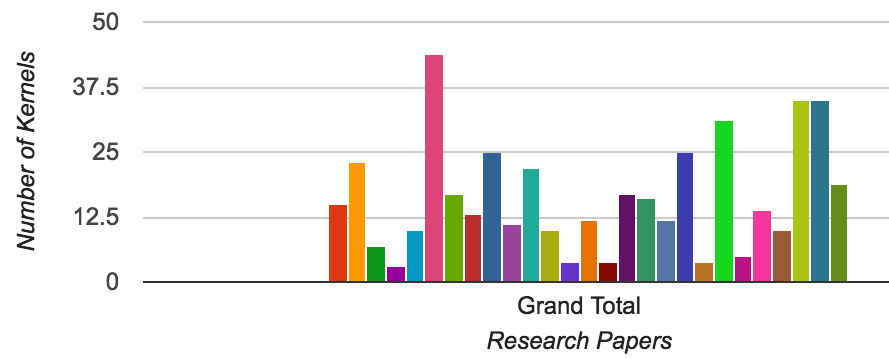
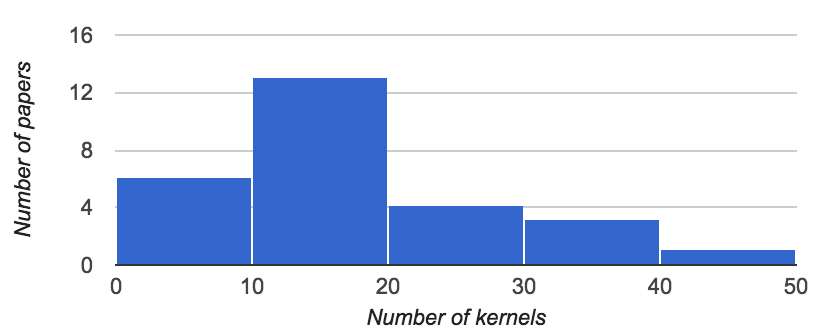
docs/smith: Morning work

diff --git a/docs/wip-smith/smith.tex b/docs/wip-smith/smith.tex
@@ -245,7 +245,7 @@ complex,imaginary},%
            {University of Edinburgh}
            {ppetoume@inf.ed.ac.uk}
 \authorinfo{Zheng Wang}
-           {Lancaster Univeristy}
+           {Lancaster University}
            {z.wang@lancaster.ac.uk}
 \authorinfo{Hugh Leather}
            {University of Edinburgh}
@@ -254,19 +254,18 @@ complex,imaginary},%
 \maketitle
 
 \begin{abstract}
-  The quality of performance tuning is bound by the quantity and
-  quality of benchmarks used. Too few benchmarks leads to overfitting;
-  non-representative benchmarks lead to invalid predictions.
+  The quality of predictive performance tuning is bound by the
+  quantity and quality of benchmarks used as training data. Too few
+  benchmarks leads to overfitting; non-representative benchmarks leads
+  to poor heuristics.
 
-  We present a novel methodology for generating OpenCL compute
-  kernels. Given a corpus of example programs, we apply deep learning
-  across the implementation space, learning a language model from
-  which we obtain new kernels through a process of rejection
-  sampling. %
-  %
-  We demonstrate our approach for a state-of-the-art machine learning
-  OpenCL autotuner. With the addition of synthesised compute kernels,
-  we improve the accuracy of machine learning predictions from XXX\%
+  We present a novel methodology for generating representative compute
+  kernels on-demand. Given a corpus of example programs, we apply deep
+  learning across the implementation space, learning a language model
+  from which we obtain new kernels through a process of rejection
+  sampling. We demonstrate our approach for a state-of-the-art machine
+  learning OpenCL autotuner. With the addition of synthesized OpenCL
+  kernels, we improve the accuracy of learned predictions from XXX\%
   to XXX\%, demonstrating up to $X\times$ speedup over the
   hand-selected benchmarks.
 \end{abstract}
@@ -286,6 +285,26 @@ GPUs
 
 \section{Introduction}\label{sec:introduction}
 
+Predictive modeling is a promising method for building effective
+optimization heuristics over large optimization spaces. Whereas
+traditionally optimization heuristics are crafted at the expense of
+months of developer effort, the optimization space is empirically and
+automatically explored to generate a set of training data over which
+machine learning is applied. The learned optimizations often
+outperform human experts~\cite{Ding2015,Hu2015}.
+
+The challenge of predictive modeling is to be explore a sufficiently
+large subset of a given optimization spaces so as to be able to make
+meaning predictions, using some finite combination of programs,
+datasets, and optimizations. In the program space, this means the
+curation and selection of a number of programs to act as
+``representative benchmarks''. The curation of programs is time
+consuming, and as such, suites of pre-packaged benchmarks are in
+widespread use.
+
+% two approaches to selecting benchmarks: benchmark suites and
+% template substitution.
+
 Benchmarking parallel applications is hard. State of the practice is
 lacking~\cite{Belli2015}.
 
@@ -295,15 +314,15 @@ Rodinia~\cite{Che2009}, %
 Parboil~\cite{Stratton2012}, %
 Polybench~\cite{Grauer-Gray2012}, %
 SHOC~\cite{Danalis2010}, %
-AMD SDK~\footnote{\url{http://developer.amd.com/}} %
+AMD SDK\footnote{\url{http://developer.amd.com/}} %
 and NVIDIA
-SDK~\footnote{\url{https://developer.nvidia.com/opencl/}}. %
+SDK\footnote{\url{https://developer.nvidia.com/opencl/}}. %
 TODO: Tease the small number of benchmarks used.
 
 Benchmarking OpenCL~\cite{Tobergte2013a}.
 
 Are benchmarks suites representative? Exploring the full performance
-spectrum~\cite{Ryoo2015}. Characterising workloads of Rodinia and
+spectrum~\cite{Ryoo2015}. Characterizing workloads of Rodinia and
 Parsec~\cite{Che2010}.
 
 In previous works we used stochastic template substitution to generate
@@ -313,25 +332,26 @@ approach is not general purpose, requires laborious human effort, and
 does not guarantee to generate representative benchmarks.
 
 \begin{quote}
-  \emph{RQ1: Can the quality of machine learning predictions be
-    improved with the addition of representative benchmarks?}
+  \emph{RQ1: Does the addition of representative benchmarks aid the
+    quality of machine learning predictions?}
 \end{quote}
 
+\noindent
 For this, we need a methodology for generating novel source
 codes. This leads to the subsequent research question:
 
 \begin{quote}
   \emph{RQ2: Given a program checker and a corpus of example programs,
-    can a language model learn to generate new programs?}
+    can deep learning be used to generate new programs?}
 \end{quote}
 
 \noindent
 The key contributions of this work are as follows:%
 \begin{itemize}
-\item a novel methodology for generating synthetic compute kernels for
-  machine learning-based performance tuning;
+\item a novel methodology for synthesizing compute kernels for machine
+  learning-based performance tuning;
 \item a large scale source code evaluation and re-writing for
-  character-level language modelling using deep learning;
+  character-level language modeling using deep learning;
 \item improved tuning performance of [CGO'13] on hand written OpenCL
   kernels.
 \end{itemize}
@@ -339,45 +359,26 @@ The key contributions of this work are as follows:%
 
 \section{Motivation}\label{sec:motivation}
 
-We surveyed the benchmarking methodologies of GPU research papers from
-top tier conferences between 2013--2016: CGO, HiPC, PACT, and
-PPoPP. By aggregating the sources and quantities of benchmark kernels
-from 27 papers, we find that 79\% of benchmark kernels come from four
-benchmark suites~\footnote{Raw data available at:
-  \url{http://bit.ly/foo}}. Figure~\ref{fig:benchmark-quantity-distribution}
-and Figure~\ref{fig:benchmark-suite-distribution}.
-
-% CGO 2016 - done
-% CGO 2015 - done
-% CGO 2014 - done
-% CGO 2013 - done
-% PLDI 2016 - done
-% PLDI 2015 - done
-% PACT 2015 - done
-% PACT 2014 - done
-% PACT 2013 - done
-% IWOCL 2016 - done
-% IWOCL 2015 - done
-% IWOCL 2014 - done
-% IWOCL 2013 - done
-% HiPC 2016 - done
-% HiPC 2015 - done
-% HiPC 2014 - done
-% HiPC 2013 - done
-% PPoPP 2016 - done
-% PPoPP 2015 - done
-% PPoPP 2014 - done
-% PPoPP 2013 - done
-% LCPC 2016 -
-% LCPC 2015 -
-% LCPC 2014 -
-% LCPC 2013 -
+We surveyed the benchmarking methodologies of research papers in the
+field of GPU performance tuning from top tier conferences between
+2013--2016: CGO, HiPC, PACT, and PPoPP. For each of the 27 papers, we
+noted the quantity and sources of all kernels they used as
+benchmarks\footnote{Anonymized raw data available at:
+  \url{http://bit.ly/XXX}}. %
+Figure~\ref{fig:benchmark-quantity-distribution} shows the
+distribution of kernel quantities. The median number of kernels used
+is 14. Of those, the majority (74\%) come from four benchmark suites:
+Rodinia~\cite{Che2009}, the NVIDIA
+SDK\footnote{\url{https://developer.nvidia.com/opencl/}},
+Parboil~\cite{Stratton2012}, and the AMD
+SDK\footnote{\url{http://developer.amd.com/}}. Figure~\ref{fig:benchmark-suite-distribution}
+shows the breakdown of kernel sources.
 
 \begin{figure}[t]
   \includegraphics[width=\columnwidth]{img/benchmark-quantitiy-distribution}
   \caption{%
     Number of benchmark kernels used in research papers. The median
-    number of benchmark kernels used is XX.%
+    value is 14.%
   }
   \label{fig:benchmark-quantity-distribution}
 \end{figure}
@@ -385,8 +386,8 @@ and Figure~\ref{fig:benchmark-suite-distribution}.
 \begin{figure}[t]
   \includegraphics[width=\columnwidth]{img/benchmark-suite-distribution}
   \caption{%
-    Origins of benchmark kernels used in research papers. 4 benchmark
-    suites account for 79\% of benchmark results.%
+    Origins of benchmark kernels used in research papers. The 4 most
+    frequently used benchmark suites account for 74\% of all kernels.%
   }
   \label{fig:benchmark-suite-distribution}
 \end{figure}
@@ -403,7 +404,7 @@ dataset.
 character-level language model.
 
 
-\paragraph{Synthesising Compute Kernels} Sampling learned model using
+\paragraph{Synthesizing Compute Kernels} Sampling learned model using
 function prototypes, rejection sampler, program checker.
 
 
@@ -420,23 +421,23 @@ function prototypes, rejection sampler, program checker.
 \section{Assembling Representative Benchmarks}\label{sec:}
 
 We collect a large code corpus from
-GitHub~\footnote{\url{https://github.com/}}. This took 2 days on a
+GitHub\footnote{\url{https://github.com/}}. This took 2 days on a
 single machine.
 
 Alternative source of data: \emph{GHTorrent}~\cite{Gousios2014a}.
 
 Rejection sampling to remove noise from dataset. Check that compiles.
 
-Minimising non-functional variance using clang libraries and tools:
+Minimizing non-functional variance using clang libraries and tools:
 \begin{itemize}
 \item Pre-process source to remove macros and conditional
   compilation.
-\item Lossless vocabulary size reduction with AST rewriting of
+\item Loss-less vocabulary size reduction with AST rewriting of
   identifiers.
 \item Automatically enforcing code style with formatting tools.
 \end{itemize}
 
-Proprocessing pipeline: Implemented on
+Pre-processing pipeline: Implemented on
 LLVM\footnote{\url{http://llvm.org/}},
 clang\footnote{\url{http://clang.llvm.org/}}, and
 libclc\footnote{\url{http://libclc.llvm.org/}}.
@@ -561,56 +562,65 @@ TODO
 
 \section{Experimental Methodology}\label{sec:evaluation}
 
+To evaluate the effectiveness
+
+we reproduce from \citeauthor{Grewe2013}~\cite{Grewe2013}.
 
 \subsection{Experimental Setup}\label{subsec:}
 
-\paragraph{Platforms} 2x GPUs, 1x CPU. Table~\ref{tab:platforms}
+\paragraph{Platforms} We evaluate our approach on two 64-bit CPU-GPU
+systems, detailed in Table~\ref{tab:platforms}. Platform A uses
+OpenSUSE 12.3 and GCC 4.7.2; Platform B uses Ubuntu 14.04 and GCC
+x. The AMD implementation of OpenCL 1.2 is used for both.
 
-whz4: OpenSUSE 12.3, GCC 4.7.2, NVIDIA OpenCL 1.2.
-codeplay: Ubuntu 14.04, GCC ???, AMD OpenCL ???.
 
-\begin{table}% tab:platforms
-\scriptsize
-\centering
-\begin{tabular}{l l l l}
-  \toprule
-  & \textbf{Intel CPU} & \textbf{NVIDIA GPU} & \textbf{AMD GPU} \\
-  \midrule
-  \textbf{Model} & Core i7-2600 & GTX TITAN & Radeon 7970 \\
-  \textbf{Frequency} & 3.6 GHz & 980 MHz & 1000 MHz \\
-  \textbf{\#. Cores} & 8 & 2688 & 2048 \\
-  \textbf{Memory} & 8 GB & 6 GB & 3 GB \\
-  \textbf{Throughput} & 100 GFLOPS & 4494 GFLOPS & 3789 GFLOPS \\
-  \bottomrule
-\end{tabular}
-\caption{Experimental platforms.}
-\label{tab:platforms}
-\end{table}
+\begin{table*}% tab:platforms
+  \scriptsize
+  \centering
+  \begin{tabular}{l c c c c}%C{1.65cm} C{1.65cm} C{1.65cm} C{1.65cm}}
+    \toprule
+    & \multicolumn{2}{c}{Platform A} & \multicolumn{2}{c}{Platform B} \\
+    % & \textbf{CPU} & \textbf{GPU} & \textbf{CPU} & \textbf{GPU} \\
+    & \textbf{Intel x} & \textbf{AMD Tahiti 7970} & \textbf{Intel x} & \textbf{AMD HD 5450} \\
+    \midrule
+    \textbf{Frequency} & x GHz & 1000 MHz & x GHz & 650 MHz \\
+    \textbf{\#. Cores} & x & x & 8 & 80 \\
+    \textbf{Memory} & 8 GB & 3 GB & x & x \\
+    \textbf{Throughput} & x GFLOPS & x GFLOPS & x GFLOPS & 104 GFLOPS
+    \\
+    % \midrule
+    % \textbf{Operating System} & \multicolumn{2}{c}{OpenSUSE 12.3} & \multicolumn{2}{c}{Ubuntu 14.04} \\
+    % \textbf{Compiler} & \multicolumn{2}{c}{GCC 4.7.2} & \multicolumn{2}{c}{GCC x} \\
+    \bottomrule
+  \end{tabular}
+  \caption{Experimental platforms.}
+  \label{tab:platforms}
+\end{table*}
 
 
 \paragraph{Benchmarks}
 
-\begin{table}% tab:benchmarks
-\scriptsize
-\centering
-\begin{tabular}{l r R{2cm} R{2cm}}
-  \toprule
-  & \textbf{Version} & \textbf{\#. seed kernels} & \textbf{\#. generated kernels}\\
-  \midrule
-  \textbf{NPB~\cite{Seo2011}} & 1.0.3 & x & x \\
-  \textbf{Parboil~\cite{Stratton2012}} & 0.2 & 7 & x \\
-  \textbf{PolyBench~\cite{Grauer-Gray2012}} & 1.0 & 30 & x \\
-  \textbf{Rodinia~\cite{Che2009}} & 3.1 & 50 & x \\
-  \textbf{SHOC~\cite{Danalis2010}} & 1.1.5 & 53 & x \\
-  \textbf{AMD SDK} & 3.0 & x & x \\
-  \textbf{NVIDIA SDK} & 4.2 & 36 & x \\
-  \textbf{Synthetic} & - & - & x \\
-  \bottomrule
-\end{tabular}
-\caption{%
-  Benchmark kernels used.
-}
-\label{tab:benchmarks}
+\begin{table}% tab:%benchmarks
+  \scriptsize
+  \centering
+  \begin{tabular}{l r R{2cm} R{2cm}}
+    \toprule
+    & \textbf{Version} & \textbf{\#. seed kernels} & \textbf{\#. generated kernels}\\
+    \midrule
+    % \textbf{NPB~\cite{Seo2011}} & 1.0.3 & x & x \\
+    \textbf{Parboil~\cite{Stratton2012}} & 0.2 & 7 & x \\
+    % \textbf{PolyBench~\cite{Grauer-Gray2012}} & 1.0 & 30 & x \\
+    \textbf{Rodinia~\cite{Che2009}} & 3.1 & 50 & x \\
+    % \textbf{SHOC~\cite{Danalis2010}} & 1.1.5 & 53 & x \\
+    \textbf{AMD SDK} & 3.0 & x & x \\
+    \textbf{NVIDIA SDK} & 4.2 & 36 & x \\
+    \textbf{Synthetic} & - & - & x \\
+    \bottomrule
+  \end{tabular}
+  \caption{%
+    Benchmark kernels used.
+  }
+  \label{tab:benchmarks}
 \end{table}
 
 Table~\ref{tab:benchmarks}. Notes: Parboil: opencl\_base
@@ -632,8 +642,6 @@ rodinia nearest neighour.
 
 
 \paragraph{Datasets}
-
-From Parboil.
 
 
 \subsection{Methodology}
@@ -659,7 +667,7 @@ GitHub, and generated synthesis.
 \subsection{Qualitatively Evaluating Generated Code}\label{subsec:}
 
 Human or
-Robot~\footnote{\url{http://humanorrobot.uk/game?g=opencl&m=nitt}}. Related
+Robot\footnote{\url{http://humanorrobot.uk/game?g=opencl&m=nitt}}. Related
 works which have used Non-Interactive Turing
 Tests~\cite{Gao2015a,Zhang2016}.
 
